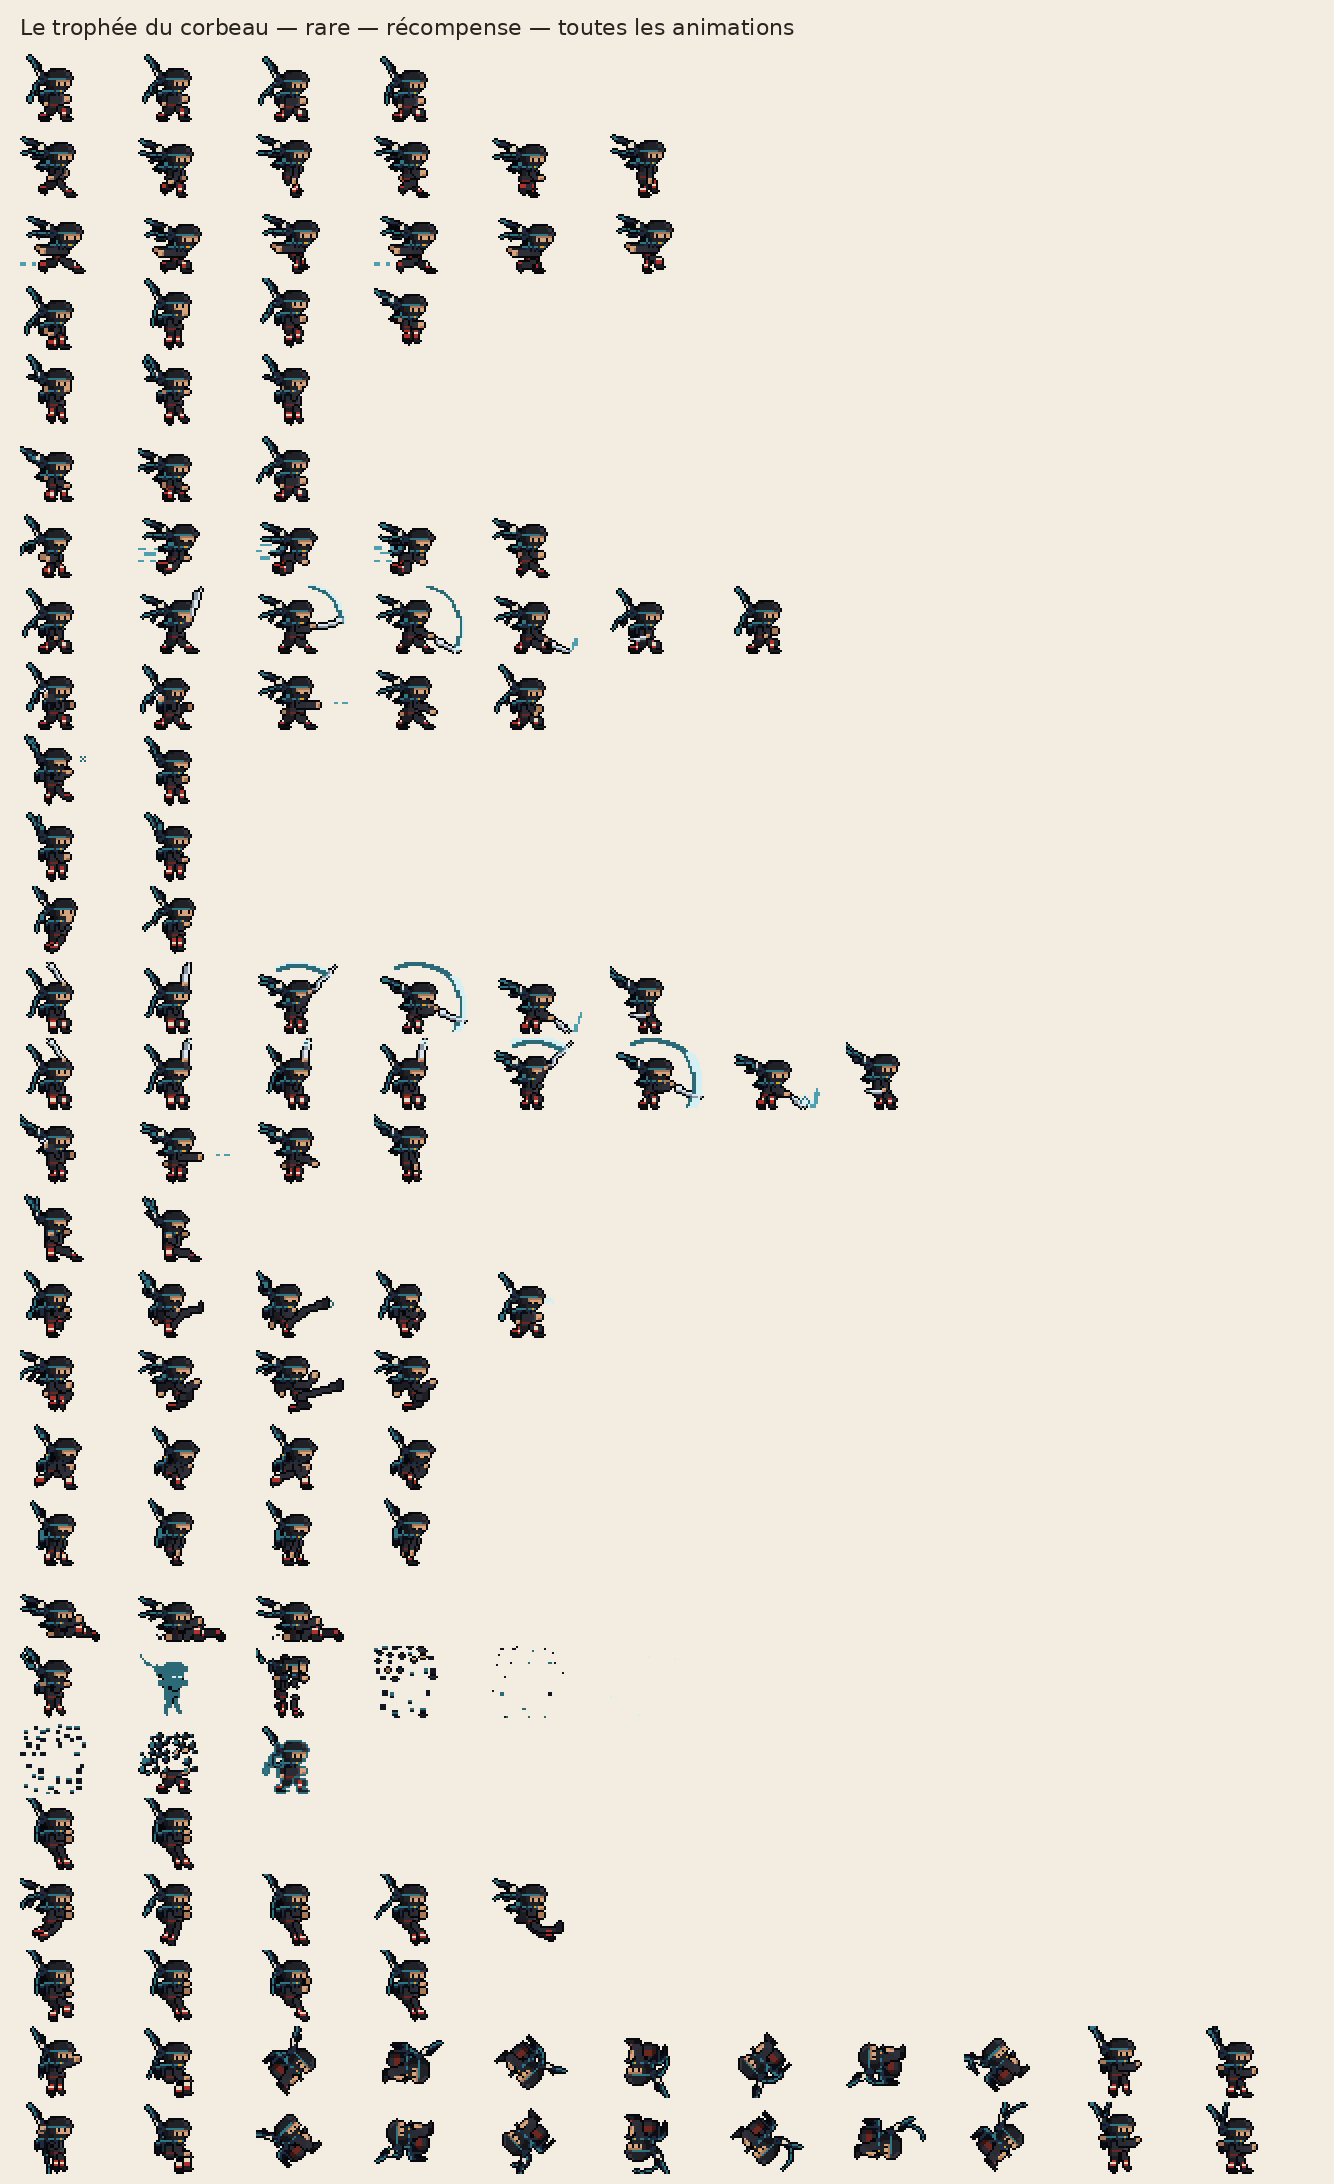
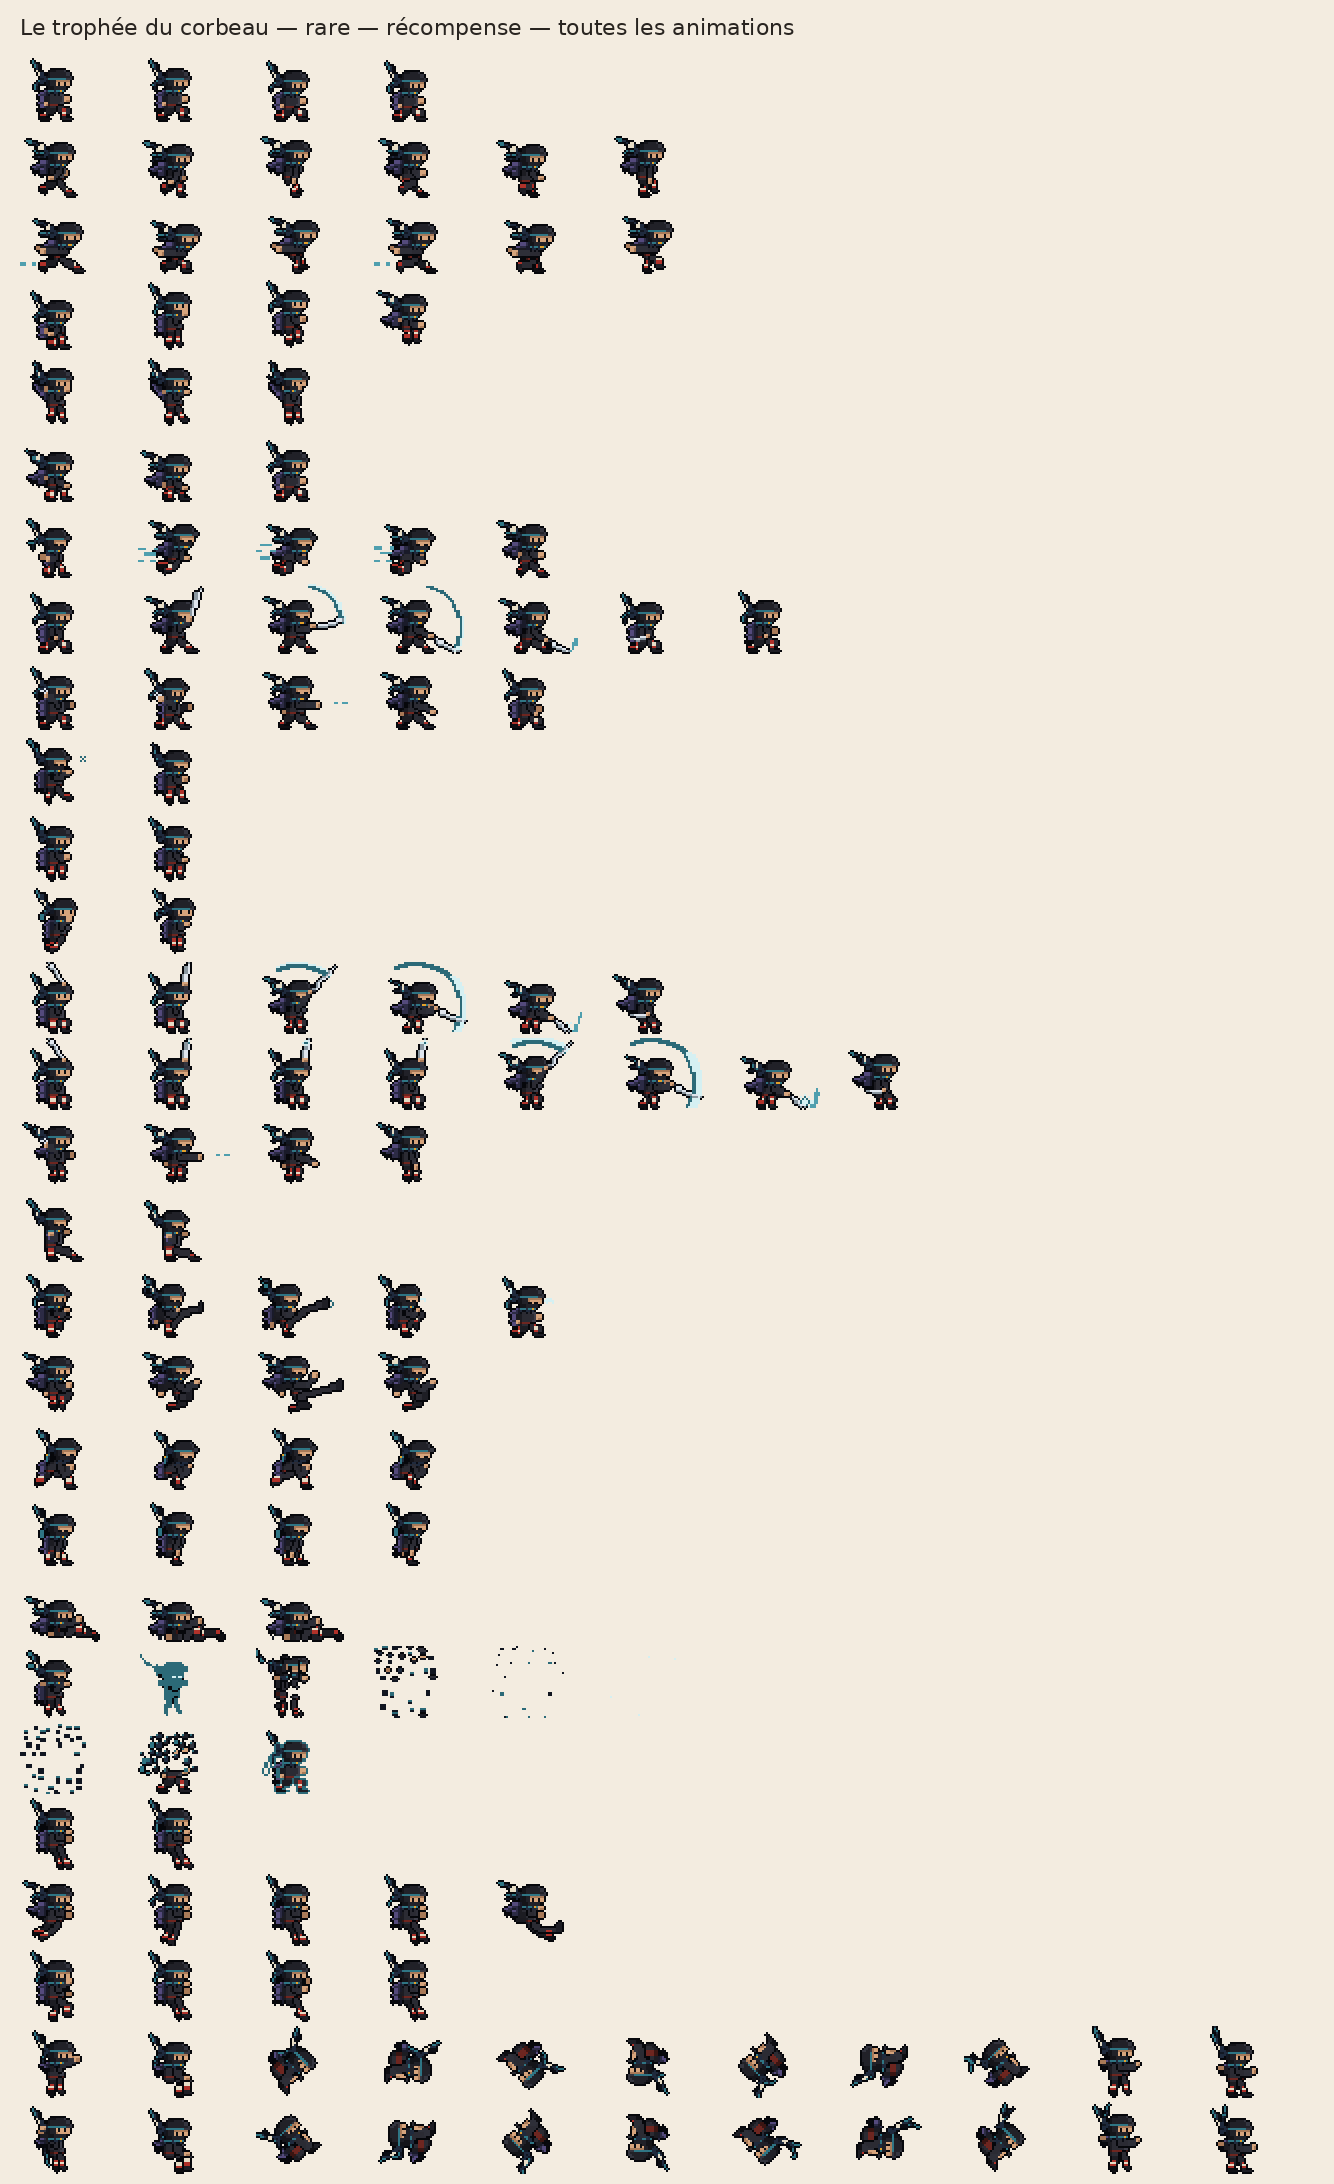
Trophée du corbeau : pans et plume du bandeau raccourcis, courte cape de petites plumes à reflets violets (repos, course, chute, salto)
Claude-Session: https://claude.ai/code/session_01A2iwx41GJ1yT1ZEu9VhwRg

diff --git a/tools/kage_forge/accessories.py b/tools/kage_forge/accessories.py
@@ -1616,33 +1616,28 @@ def emeralds(g):
 # (une plume de rémige : elle plie à peine) ; en course, le vent la couche un peu plus.
 CROW_FEATHER = {
     "calm": ((-2, 2), [
-        "i....",
-        "iB...",
-        ".iB..",
-        ".iBb.",
-        "..iBb",
-        "..iBb",
-        "...Bb",
-        "...cb",
-        "....c",
+        "i...",
+        "iB..",
+        ".iBb",
+        ".iBb",
+        "..Bb",
+        "..cb",
+        "...c",
     ]),
     "back": ((-2, 2), [
-        "ii.......",
-        ".iiBB....",
-        "..bBBBb..",
-        "....bbBbc",
-        ".......cc",
+        "ii.....",
+        ".iBBb..",
+        "...bBbc",
+        ".....cc",
     ]),
     "up": ((-2, 2), [
-        "i....",
-        "iB...",
-        ".iB..",
-        ".iBb.",
-        "..iBb",
-        "..iBb",
-        "...Bb",
-        "...cb",
-        "....c",
+        "i...",
+        "iB..",
+        ".iBb",
+        ".iBb",
+        "..Bb",
+        "..cb",
+        "...c",
     ]),
 }
 
@@ -1695,23 +1690,6 @@ def crow_collar(g):
         for x in range(max(0, hx - 1), min(CW, hx + 11)):
             if g[y - 1, x] in "bBi" and g[y, x] in "tTU" and x % 2 == 0:
                 g[y, x] = "b"
-    # sur l'épaule arrière, les plumes qui débordent du dos
-    xl = _back_edge(g, hy + 11, hx, TORSO)
-    if xl is not None:
-        mask = np.zeros(g.shape, bool)
-        wind = _wind(g, hx, hy)
-        shape = (((8, -1, "iB"), (9, -3, "iiBB"), (10, -4, "iBBbB"), (11, -4, "BbBbb"), (12, -4, "b.Bb"),
-                  (13, -4, "b..b"))
-                 if wind != "back" else
-                 ((8, -2, "iiB"), (9, -5, "biiBB"), (10, -6, "b.bBBb"), (11, -4, "b.b")))
-        for dy, x0, cols in shape:
-            yy = hy + dy
-            for k, c in enumerate(cols):
-                x = xl + x0 + k
-                if c != "." and 0 <= x < CW and 0 <= yy < CH and (g[yy, x] in BG or g[yy, x] in "fFGkK" or g[yy, x] in TORSO):
-                    g[yy, x] = c
-                    mask[yy, x] = True
-        _outline(g, mask)
     return g, done
 
 
@@ -1731,7 +1709,135 @@ def crow_wraps(g):
     return g, done
 
 
+
+# les pans du bandeau, raccourcis : ce qui dépasse de CROW_TAIL_LEN pixels du nœud est retiré (dans les saltos,
+# la forge les trace plus courts : flip.py, TAIL_SCALE)
+CROW_TAIL_LEN = 5
+
+
+def crow_tails(g):
+    pos = find_head(g)
+    ks = [(y, x) for y in range(CH) for x in range(CW) if g[y, x] in "kK"]
+    if pos is None or not ks:
+        return g, False
+    hx, hy = pos
+    kx = min(x for _, x in ks)
+    ky = sum(y for y, _ in ks) / len(ks)
+    g = g.copy()
+    done = False
+    for y in range(CH):
+        for x in range(CW):
+            if g[y, x] in "fFG" and (x < hx + 2 or y < hy) and (x - kx) ** 2 + (y - ky) ** 2 > CROW_TAIL_LEN ** 2:
+                g[y, x] = "."
+                done = True
+    if done:
+        _reoutline(g)
+    return g, done
+
+
+# la cape de petites plumes, dessinée à la main pour chaque vent (comme la cape du samouraï) : trois rangs de
+# plumes en écailles, chacun finit par une pointe sombre (le bord dentelé dit « plumes ») ; courte, des épaules
+# au haut des cuisses. Au repos elle tombe droit contre le dos ; en course, plus lourde qu'une étoffe, elle se
+# soulève à peine et traîne en biais ; en chute, elle remonte ; en boule (salto), elle se ramasse.
+# Chaque rangée est calée à droite contre le dos (le dernier caractère touche le bord arrière de l'épaule) ;
+# (première rangée, relative à la tête). Q reflet violet · P plume · p ombre contre le dos · r pointe sombre
+CROW_CAPE = {
+    # au repos : calée contre le dos (chaque rangée finit sur le bord arrière de l'épaule), des épaules au haut
+    # des cuisses ; trois rangs de plumes, chacun ressort d'un pixel et finit par une pointe sombre (le bord
+    # dentelé), le reflet violet sur le haut de chaque rang
+    "calm": (9, [
+        "..QP",
+        ".QPp",
+        "QPPp",
+        "rQPp",
+        ".QPp",
+        "QPPp",
+        "rQPp",
+        ".QPp",
+        "r.rp",
+    ]),
+    # en chute : elle remonte derrière les épaules
+    "up": (6, [
+        "r.....",
+        "QP....",
+        "rQPp..",
+        ".rQPp.",
+        "..rQPp",
+        "...QPp",
+        "....Pp",
+    ]),
+    # en boule (salto) : ramassée sur le dos
+    "flip": (9, [
+        "..QP",
+        "QPpp",
+        "rQPp",
+        ".r.r",
+    ]),
+}
+# en course : accrochée à la nuque (derrière le col), elle traîne derrière lui en biais, plus lourde qu'une
+# étoffe (elle ne flotte pas à l'horizontale) ; le dessus lisse au reflet violet, le dessous en pointes.
+# (rangées calées à droite sur l'arrière du col ; la première rangée est celle du dessus du col, moins un)
+CROW_CAPE_RUN = [
+    "....QQPp",
+    "..QQPPpp",
+    "QQPPpPpp",
+    "rPPpQPp.",
+    ".r.rPPp.",
+    "....r.r.",
+]
+
+
+def _put(g, mask, x, y, c):
+    if c != "." and 1 <= x < CW and 0 <= y < CH and g[y, x] in BG:
+        g[y, x] = c
+        mask[y, x] = True
+
+
+def crow_cape(g):
+    pos = find_head(g)
+    if pos is None:
+        return g, False
+    hx, hy = pos
+    wind = _wind(g, hx, hy)
+    # un salto : la forge trace ses pans après, la pose n'en a pas
+    if not any(g[y, x] in "fFG" for y in range(CH) for x in range(max(0, hx + 2))):
+        wind = "flip"
+    g = g.copy()
+    mask = np.zeros(g.shape, bool)
+    if wind == "back":
+        # l'arrière du col (le haut de l'écharpe, sous la tête)
+        neck = [(y, x) for y in range(hy + 7, min(CH, hy + 12)) for x in range(max(0, hx - 1), min(CW, hx + 11))
+                if g[y, x] in "fFG"]
+        if not neck:
+            return g, False
+        ay = min(y for y, _ in neck)
+        ax = min(x for y, x in neck if y == ay)
+        for j, row in enumerate(CROW_CAPE_RUN):
+            for i, c in enumerate(row):
+                _put(g, mask, ax - len(row) + i, ay - 1 + j, c)
+        _outline(g, mask)
+        return g, True
+    xs = _back_edge(g, hy + 11, hx, TORSO)
+    if xs is None:
+        return g, False
+    feet = [y for y in range(CH) if any(c in "tTUdD" for c in g[y])]
+    bottom = (max(feet) if feet else CH) - 4
+    dy0, rows = CROW_CAPE[wind]
+    for j, row in enumerate(rows):
+        y = hy + dy0 + j
+        if y > bottom:
+            continue
+        for i, c in enumerate(row):
+            _put(g, mask, xs - len(row) + i, y, c)
+    _outline(g, mask)
+    return g, True
+
+
 def accessory(name):
+    if name == "crow_tails":
+        return crow_tails
+    if name == "crow_cape":
+        return crow_cape
     if name == "crow_feather":
         return crow_feather
     if name == "crow_collar":

diff --git a/tools/kage_forge/flip.py b/tools/kage_forge/flip.py
@@ -184,12 +184,16 @@ def tail(knot, center, theta, omega, v, length, gravity=60.0, start=(0, 0)):
     return path
 
 
-def draw_tails(g, knot, center, theta, omega, v):
-    """Dessine les deux pans derrière le corps (sur le vide seulement)."""
+# un skin peut raccourcir les pans (le trophée du corbeau : accessoire « crow_tails ») : facteur de longueur
+TAIL_SCALE = {"crow_tails": 0.5}
+
+
+def draw_tails(g, knot, center, theta, omega, v, k=1.0):
+    """Dessine les deux pans derrière le corps (sur le vide seulement) ; k : facteur de longueur (skin)."""
     g = g.copy()
     h, w = g.shape
-    for length, colors, start, grav in ((SHORT_TAIL, SHORT_COLORS, (0, 1), 90.0),
-                                         (LONG_TAIL, LONG_COLORS, (0, 0), 50.0)):
+    for length, colors, start, grav in ((round(SHORT_TAIL * k), SHORT_COLORS, (0, 1), 90.0),
+                                         (round(LONG_TAIL * k), LONG_COLORS, (0, 0), 50.0)):
         # le tissu se compte à partir du moment où il sort de derrière le corps
         i = 0
         for (x, y) in tail(knot, center, theta, omega, v, length, grav, start):
@@ -281,36 +285,38 @@ def _center(g):
     return (xs.mean() + 0.5, ys.mean() + 0.5)
 
 
-def _finish(g, knot, center, theta, omega, v):
+def _finish(g, knot, center, theta, omega, v, k=1.0):
     if knot is None:
         return add_outline(clean(g))
-    return add_outline(clean(draw_tails(g, knot, center, theta, omega, v)))
+    return add_outline(clean(draw_tails(g, knot, center, theta, omega, v, k)))
 
 
 def frames(kind, acc=None):
     """Images agrandies (57×36) du salto ; kind = 'front' ou 'back'. acc : accessoires du skin."""
     s = 1 if kind == "front" else -1
     out = []
+    tk = min([TAIL_SCALE[n] for n in (acc or ()) if n in TAIL_SCALE] or [1.0])
+    fin = lambda *a: _finish(*a, tk)   # noqa: E731 (les pans du skin, à sa longueur)
     # 1. impulsion : le corps monte vite, le foulard pend dessous
     p = TAKEOFF_FRONT if kind == "front" else TAKEOFF_BACK
     g = _grow(p, acc)
-    out.append(_finish(g, _knot(g), _center(g), 0, 0, (55 * s, -300)))
+    out.append(fin(g, _knot(g), _center(g), 0, 0, (55 * s, -300)))
     # 2. début du groupé : la rotation s'amorce
     g = bulk(_grow(TUCK_IN, acc), BULK["tuck_in"])
-    out.append(_finish(g, _knot(g), _center(g), 0, 300 * s, (60 * s, -200)))
+    out.append(fin(g, _knot(g), _center(g), 0, 300 * s, (60 * s, -200)))
     # 3. la boule, de 45° en 45° ; elle monte, passe le sommet, redescend
     ball = bulk(_grow(TUCK, acc), BULK["ball"])
     c, k = _center(ball), _knot(ball)
     for i, a in enumerate(range(45, 360, 45)):
         vy = -110 + i * 40                 # (envolée bridée : il monte doucement, flotte, redescend)
         g = rotate(ball, a * s, c)
-        out.append(_finish(g, k, c, a * s, SPIN * s, (60 * s, vy)))      # (tail() tourne le nœud lui-même)
+        out.append(fin(g, k, c, a * s, SPIN * s, (60 * s, vy)))      # (tail() tourne le nœud lui-même)
     # 4. ouverture : la rotation freine, les jambes vont chercher le sol
     g = bulk(_grow(OPEN, acc), BULK["open"])
-    out.append(_finish(g, _knot(g), _center(g), 0, 220 * s, (55 * s, 200)))
+    out.append(fin(g, _knot(g), _center(g), 0, 220 * s, (55 * s, 200)))
     # 5. réception : jambes tendues, le foulard flotte au-dessus
     g = _grow(LANDING, acc)
-    out.append(_finish(g, _knot(g), _center(g), 0, 0, (60 * s, 280)))
+    out.append(fin(g, _knot(g), _center(g), 0, 0, (60 * s, 280)))
     return out
 
 
